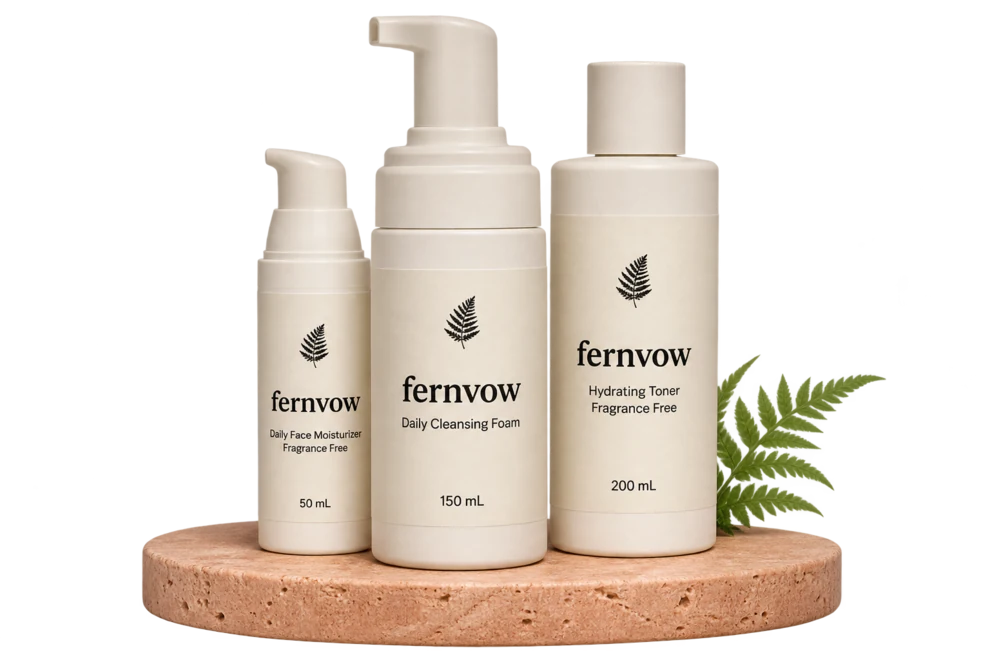
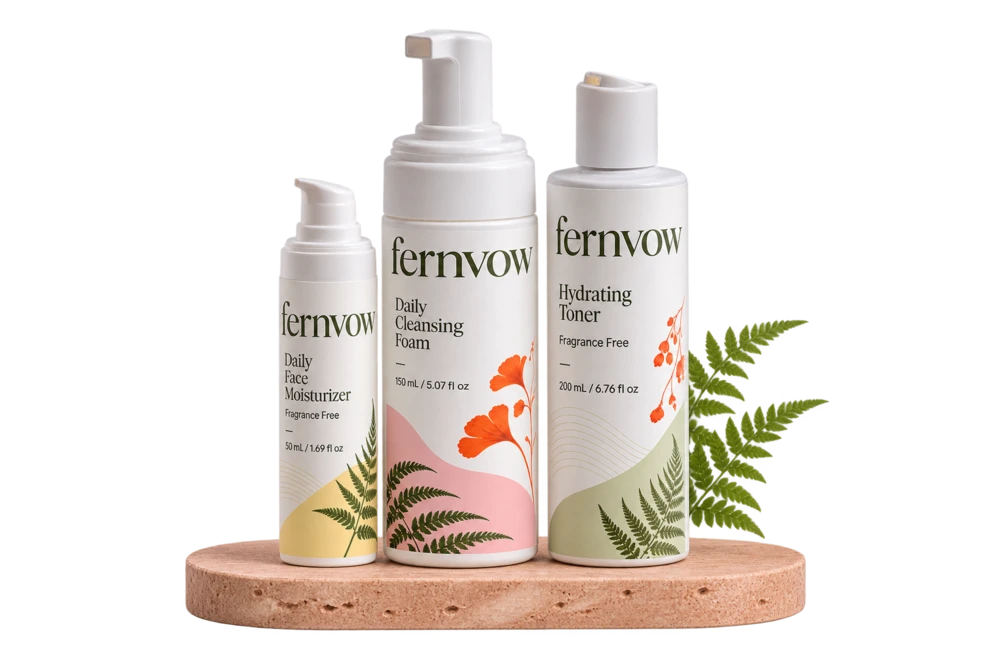
Apply botanical Fernvow packaging and storefront photography

diff --git a/src/data/catalog.js b/src/data/catalog.js
@@ -109,10 +109,10 @@ export const PRODUCTS = [
     images: {
       primary: 'assets/photos/daily-cleansing-foam-photo.webp',
       editorialImage: 'assets/photos/ritual-cleanse.webp',
-      editorialAlt: 'Hands working cleanser into a foam beside the Daily Cleansing Foam bottle',
+      editorialAlt: 'A handful of airy cleansing foam beside the pink Fernvow bottle at a stone sink',
       vectorConcept: 'assets/products/daily-cleansing-foam.svg',
       labelSpec: 'assets/products/label-spec-foam.svg',
-      alt: 'Fernvow Daily Cleansing Foam 150 mL matte white bottle with foaming pump',
+      alt: 'Fernvow Daily Cleansing Foam 150 mL white pump bottle with a pink botanical label',
       previewCaption: '150 mL / 5.07 fl oz matte foaming bottle in sunlit travertine light.',
     },
     bundleComponents: null,
@@ -181,7 +181,7 @@ export const PRODUCTS = [
     images: {
       primary: 'assets/photos/the-daily-duo-photo.webp',
       editorialImage: 'assets/photos/ritual-duo.webp',
-      editorialAlt: 'The Daily Duo on folded linen beside a ceramic tray',
+      editorialAlt: 'The Daily Duo bottles on a sunlit stone ledge beside folded linen',
       vectorConcept: 'assets/products/the-daily-duo.svg',
       labelSpec: null,
       alt: 'Fernvow The Daily Duo featuring Daily Cleansing Foam 150 mL and Daily Face Moisturizer 50 mL',
@@ -262,10 +262,10 @@ export const PRODUCTS = [
     images: {
       primary: 'assets/photos/daily-face-moisturizer-photo.webp',
       editorialImage: 'assets/photos/ritual-moisturize.webp',
-      editorialAlt: 'A small amount of face moisturizer applied to the back of a hand',
+      editorialAlt: 'A small swipe of face moisturizer beside the yellow Fernvow bottle on a stone ledge',
       vectorConcept: 'assets/products/daily-face-moisturizer.svg',
       labelSpec: 'assets/products/label-spec-moisturizer.svg',
-      alt: 'Fernvow Daily Face Moisturizer 50 mL slim matte white airless pump bottle',
+      alt: 'Fernvow Daily Face Moisturizer 50 mL white pump bottle and yellow botanical carton',
       previewCaption: '50 mL / 1.69 fl oz mono-material airless dispenser designed for clean dosing.',
     },
     bundleComponents: null,
@@ -328,10 +328,10 @@ export const PRODUCTS = [
     images: {
       primary: 'assets/photos/hydrating-toner-photo.webp',
       editorialImage: 'assets/photos/ritual-tone.webp',
-      editorialAlt: 'Drops of toner falling into a hand beside the Hydrating Toner bottle',
+      editorialAlt: 'The sage Fernvow Hydrating Toner bottle beside a stone sink with water ripples',
       vectorConcept: 'assets/products/hydrating-toner.svg',
       labelSpec: 'assets/products/label-spec-toner.svg',
-      alt: 'Fernvow Hydrating Toner 200 mL matte white bottle with disc-top cap',
+      alt: 'Fernvow Hydrating Toner 200 mL white bottle with a sage botanical label and disc-top cap',
       previewCaption: '200 mL / 6.76 fl oz disc-top bottle crafted for generous daily layering.',
     },
     bundleComponents: null,

diff --git a/src/views/productView.js b/src/views/productView.js
@@ -27,7 +27,7 @@ export function getPdpMediaOptions(product) {
         cleanse: 'Close-up of airy cleansing foam in a ceramic dish',
         tone: 'Clear water rippling in a blush glass dish',
         moisturize: 'An ivory moisturizer swatch on a coral tile',
-        bundle: 'Two ivory bottles side by side on a coral ledge',
+        bundle: 'The pink cleanser and yellow moisturizer bottles on a sunlit stone ledge',
       }[product.category],
     },
   ];

diff --git a/docs/product-media.md b/docs/product-media.md
@@ -1,6 +1,16 @@
 # Fernvow product media
 
-All four product meshes came from [Microsoft TRELLIS.2](https://github.com/microsoft/TRELLIS.2) using [trellis.cpp v0.8.1](https://github.com/pwilkin/trellis.cpp/releases/tag/v0.8.1) and the [Q4 GGUF weights](https://huggingface.co/ilintar/trellis2-gguf/tree/main/q4). Blender applied Fernvow’s label artwork and separate paper, bottle, and cap roughness maps. The model files and Cycles ray-traced stills are archived production assets. Product pages use the photographs below.
+## Botanical packaging and current photography
+
+The bottle wraps and moisturizer carton dieline in `assets/packaging` match the designs saved in Selfnamed. The six front panels and proof sheet show the whole design family. Selfnamed offers a printable carton for the moisturizer and a bottle label for each formula. The cleanser and toner carton fronts are concept artwork.
+
+The three individual storefront packshots are exported from Selfnamed. The Daily Duo, homepage cutout, routine photo, and collection images use built-in ImageGen with the Selfnamed packshots as references. The desktop collection panels are 1600 × 640 and the mobile panels are 720 × 720.
+
+The packaging prompts asked ImageGen to flatten the approved reference into six print panels, preserve the high-contrast wordmark and detailed ferns and flowers, and keep each formula's color and exact label text. The bottle artwork was color-corrected to neutral white and fitted to each supplier wrap. The photo prompts asked for the exact white bottles, closures, and artwork in sunlit stone and plaster settings, with compact, centered product groups for the collection crops and a transparent background for the homepage cutout.
+
+## Archive
+
+All four product meshes came from [Microsoft TRELLIS.2](https://github.com/microsoft/TRELLIS.2) using [trellis.cpp v0.8.1](https://github.com/pwilkin/trellis.cpp/releases/tag/v0.8.1) and the [Q4 GGUF weights](https://huggingface.co/ilintar/trellis2-gguf/tree/main/q4). Blender applied Fernvow’s label artwork and separate paper, bottle, and cap roughness maps. The model files and Cycles ray-traced stills are archived production assets.
 
 ## Campaign photography
 
